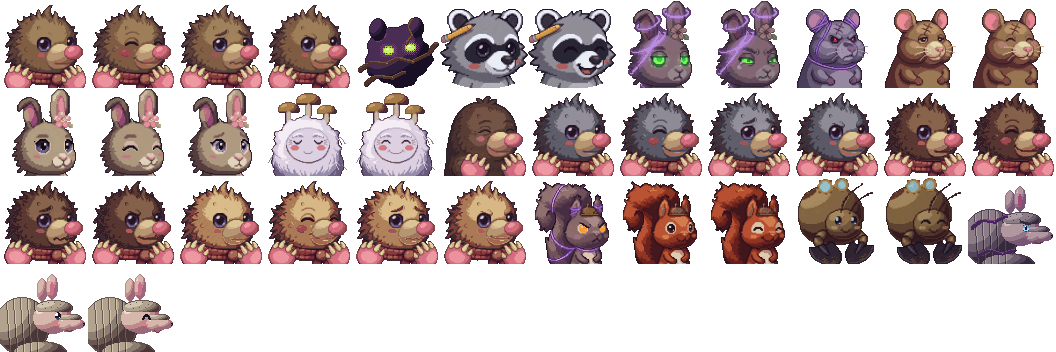
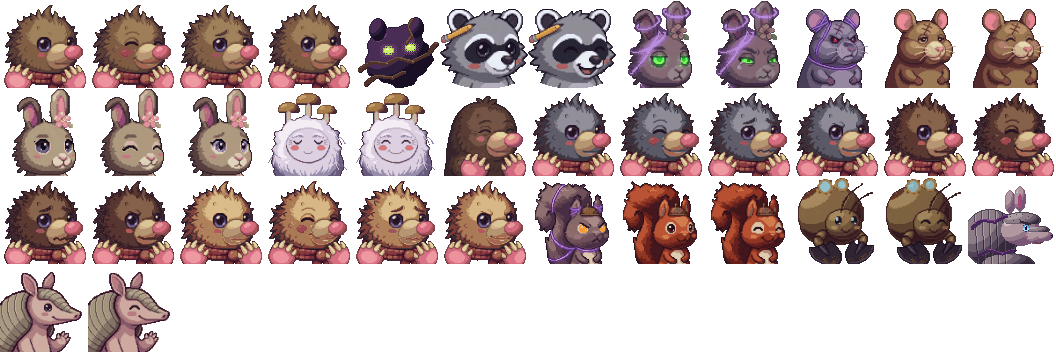
콩이 대화 초상화를 나노바나나 그림으로(칸 36~37): 3/4 모습 기준으로 긴 주둥이·뾰족한 귀(토끼 귀가 아니게), 머리 판 테두리가 지워지지 않게 틈 지우기는 끔. 바뀐 칸 확인이 0~35만 보던 것을 48칸으로 고쳐 v0.1.18부터 다시 봄(35~47 그대로), 공식 페이지 콩이 그림도(0121)
Claude-Session: https://claude.ai/code/session_01VNXEyeHwdhsn4oiHYXtNpM

Changed region(s): [[0.0, 0.7812, 0.1875, 1.0]]

diff --git a/tools/art/ai_portraits.py b/tools/art/ai_portraits.py
@@ -45,6 +45,8 @@ CHARACTERS = {
     'doto_tainted': (30, ('glare',), 0.96, 16),
     # 수수: 원본에 둘레 여백이 있어 틀을 맞춘다(높이 100%). 다리 사이에 갇힌 배경 틈을 지운다(HOLES).
     'susu': (33, ('normal', 'happy'), 1.0, 16),
+    # 콩이: 원본이 칸을 채워 틀은 그대로. 주둥이 위 머리 판의 밝은 테두리가 배경색과 가까워 틈 지우기(HOLES)는 켜지 않는다.
+    'kongi': (36, ('normal', 'happy'), None, 16),
 }
 # 크림색 가슴이 원본 아래 끝에 닿는 캐릭터: 배경 지우기를 아래 끝에서 시작하지 않는다(_character_mask).
 CHEST_AT_BOTTOM = {'momo', 'momo_tainted', 'halmae', 'doto', 'doto_tainted'}

diff --git a/docs/phase-1-combat-prototype.md b/docs/phase-1-combat-prototype.md
@@ -124,7 +124,7 @@
 | 잠긴 문(0094·0096~0099) | `render.rs`(draw_root_gate·빛 패스), `sunny.rs`(FENCE_H·FENCE_V), `room.rs`(door_anim·tick_doors), `world.rs`(열릴 때 실 풀림) | 팩 나무 울타리 두 겹(가운데 칸만: 남북 39,2 · 동서 40,3, 가로대가 벽에서 벽까지, 팩이 없으면 물든 뿌리) + 가로대를 감는 보라 실, 0.35초에 솟아 닫히고 0.5초에 가라앉으며 실이 풀린다, 어둠 속에서도 실이 빛남 |
 | 어둠 지도·야광버섯·그림자(0095·0100) | `render.rs`(dark_rt·cut_material·light_sources·draw_cast_shadows·draw_mushrooms), `art.rs`(light), `biome.rs` | 빛 자리마다 어둠을 빼는 렌더 타깃, 버섯 빛 64px·세기 0.28(은은하게 넓게), 심층 버섯 14%·뿌리 지대 4%, 빛 반대쪽으로 눕는 그림자 |
 | 해·모닥불 그림자(0102~0106, 시험) | `render.rs`(draw_sun_shadows·shadow_dir·sun_shear·silhouette_material, draw_sorted의 sun), `sunny.rs`(stamp_sun_shadow), `terrain.rs`(Baker::fires), `tuning.rs`(SUN_SHADOW_*·FIRE_SHADOW_*·DECOR_LIFT_*) | 서 있는 것의 모양을 발 줄 축으로 눕혀 렌더 타깃에 모아 한 번에 얹는다. 밝은 곳은 해(오른쪽 아래), 모닥불 곁은 불 바깥쪽(150px, 멀수록 길게, 불이 아래면 더 길게 0104, 어두운 곳은 바깥으로 옅게). 모닥불 돌은 돌만 키운 모양(뒤쪽은 짧게, 0105). 그림자 패스는 몸만(빛·표시·반투명·바닥 것 제외, 밝은 곳은 타원 그림자 끔, 0106). 구운 꽃·조약돌·풀포기는 높이 비율만큼 짧게 |
-| Naïl·포포·모모(돌아옴·물듦)·보리(돌아옴·물듦)·누룩 할매·엄마·도토(돌아옴·물듦)·수수 초상화 나노바나나(0107~0120) | `tools/art/sources/ai/nail_*.png`, `tools/art/ai_portraits.py`, `tools/art/portraits.py`(sheet), `docs/art/nano-banana-prompts.md` | 표정 넷 원본 → 로고 지우기·결의 눈 색·배경 투명·88×88·한 팔레트(눈 8색 따로)·털빛 셋(주둥이·발톱은 자리로 지킴). 포포: 틀 맞추기(높이 92%)·채도 높은 색 따로. 모모: 검은 선 → 자두빛, 틀 1.22(귀 끝을 칸 맨 위에, 가슴을 칸 아래로), 가슴이 지워지지 않게 아래 끝 번지기 끔. 물든 모모: 같은 틀, 실은 굵게·위로, 눈은 선명한 초록으로 고쳐 그림, 흰빛은 보랏빛으로 물들임. 보리: 시트를 통통하게 고쳐 그림, 틀 그대로. 들쥐 대장: 보리를 고쳐 그림, 눈 팔레트 안 뗌(보라 기운 털), 빨간 눈 밝게. 할매: 시트의 둥근 얼굴 판으로 표정 짝, 둘러싸인 배경 틈 지움. 엄마: Naïl 초상화를 함께 넣고 털을 짙고 매끈하게, 앞발은 따로 고쳐 그림. Naïl 결의: 덜 표독스럽게 다시 그림, 팔레트를 얼려 다른 칸은 그대로. 도토: 시트에서 조끼·보라 꽃·리본 빼고, 몸이 잘린 줄까지만 써 배 구멍 막음. 물든 도토: 도토를 고쳐 그림, 호박색 눈 밝게. 수수: 생김새 글을 새로 쓰고 삽발을 칸 아래에. 다른 캐릭터는 다음 차례 |
+| Naïl·포포·모모(돌아옴·물듦)·보리(돌아옴·물듦)·누룩 할매·엄마·도토(돌아옴·물듦)·수수·콩이 초상화 나노바나나(0107~0121) | `tools/art/sources/ai/nail_*.png`, `tools/art/ai_portraits.py`, `tools/art/portraits.py`(sheet), `docs/art/nano-banana-prompts.md` | 표정 넷 원본 → 로고 지우기·결의 눈 색·배경 투명·88×88·한 팔레트(눈 8색 따로)·털빛 셋(주둥이·발톱은 자리로 지킴). 포포: 틀 맞추기(높이 92%)·채도 높은 색 따로. 모모: 검은 선 → 자두빛, 틀 1.22(귀 끝을 칸 맨 위에, 가슴을 칸 아래로), 가슴이 지워지지 않게 아래 끝 번지기 끔. 물든 모모: 같은 틀, 실은 굵게·위로, 눈은 선명한 초록으로 고쳐 그림, 흰빛은 보랏빛으로 물들임. 보리: 시트를 통통하게 고쳐 그림, 틀 그대로. 들쥐 대장: 보리를 고쳐 그림, 눈 팔레트 안 뗌(보라 기운 털), 빨간 눈 밝게. 할매: 시트의 둥근 얼굴 판으로 표정 짝, 둘러싸인 배경 틈 지움. 엄마: Naïl 초상화를 함께 넣고 털을 짙고 매끈하게, 앞발은 따로 고쳐 그림. Naïl 결의: 덜 표독스럽게 다시 그림, 팔레트를 얼려 다른 칸은 그대로. 도토: 시트에서 조끼·보라 꽃·리본 빼고, 몸이 잘린 줄까지만 써 배 구멍 막음. 물든 도토: 도토를 고쳐 그림, 호박색 눈 밝게. 수수: 생김새 글을 새로 쓰고 삽발을 칸 아래에. 콩이: 3/4 모습 기준, 토끼 귀가 아닌 뾰족한 귀. 다른 캐릭터는 다음 차례 |
 | 웨이브 | `world.rs`, `scenario.rs` | 지금은 개발 시나리오(아레나·웨이브 3부터)에서만. 적을 다 잡으면 1.2초 뒤 다음 웨이브(1C+1S → 2C+1S → 2C+2S → 3C+2S). 명세엔 없지만 5분 플레이 판정을 위해 넣음 |
 
 확인한 것: 데스크톱(Xvfb) 실행 캡처로 렌더 방향·공격 반원·굴파기·히트박스 표시, 헤드리스 Chromium으로 웹 빌드 로드·입력·콘솔(mismatch 없음). 확인 못 한 것: 실제 손맛(판정 1~4), 실기 게임패드, 소리의 실제 느낌(컨테이너에 오디오 장치 없음).

diff --git a/assets/LICENSES.md b/assets/LICENSES.md
@@ -8,7 +8,7 @@
 | `fonts/OFL-ArkPixel.txt` | Ark Pixel 레포 `LICENSE-OFL` | — | Ark Pixel의 OFL 원문. 일본어·간체 폰트와 함께 배포 |
 | `art/nail.png` | 직접 그림. 원본 `tools/art/nail.py` | © 2026 Beardworks | Naïl 스프라이트 v2(idle·walk·attack·hurt·dead·흙더미·그림자 + 흰 실루엣) |
 | `art/nail_fur1~3.png` | 직접 그림. 원본 `tools/art/nail.py`(털 색만 바꿈) | © 2026 Beardworks | 털빛 잿빛·밤빛·모래빛(저널 보상, docs/decisions/0048) |
-| `art/portraits.png` | 직접 그림. 원본 `tools/art/portraits.py`. **Naïl 칸 0~3·18~29, 포포 칸 5~6, 물든 모모 칸 7~8, 들쥐 대장(물든 보리) 칸 9, 보리 칸 10~11, 돌아온 모모 칸 12~14, 누룩 할매 칸 15~16, 엄마 칸 17, 도토 칸 30~32, 수수 칸 33~34**는 나노바나나(Google Gemini 이미지 모델)로 사장이 그린 원본 `tools/art/sources/ai/*.png`를 `tools/art/ai_portraits.py`가 칸으로 만든 것(2026-10-26, docs/decisions/0108·0109·0110·0112·0113·0114·0115·0116·0117·0118·0119·0120). 참고 그림은 직접 그린 초상화만 넣었다(팩 그림 없음, 0064). 모든 생성 그림에 SynthID 워터마크가 들어 있다 | © 2026 Beardworks | 대화창 초상화 88×88, 한 줄 12칸(Naïl 털빛 3 × 표정 4 포함, Naïl 표정 4 + 이웃 그림자 + 라쿤 포포 2 + 물든 모모 2 + 들쥐 대장·보리 3 + 돌아온 모모 3 + 누룩 할매 2 + 엄마 두더지 1 + 도토 3 + 수수 2 + 콩이 3) |
+| `art/portraits.png` | 직접 그림. 원본 `tools/art/portraits.py`. **Naïl 칸 0~3·18~29, 포포 칸 5~6, 물든 모모 칸 7~8, 들쥐 대장(물든 보리) 칸 9, 보리 칸 10~11, 돌아온 모모 칸 12~14, 누룩 할매 칸 15~16, 엄마 칸 17, 도토 칸 30~32, 수수 칸 33~34, 콩이 칸 36~37**은 나노바나나(Google Gemini 이미지 모델)로 사장이 그린 원본 `tools/art/sources/ai/*.png`를 `tools/art/ai_portraits.py`가 칸으로 만든 것(2026-10-26, docs/decisions/0108·0109·0110·0112·0113·0114·0115·0116·0117·0118·0119·0120·0121). 참고 그림은 직접 그린 초상화만 넣었다(팩 그림 없음, 0064). 모든 생성 그림에 SynthID 워터마크가 들어 있다 | © 2026 Beardworks | 대화창 초상화 88×88, 한 줄 12칸(Naïl 털빛 3 × 표정 4 포함, Naïl 표정 4 + 이웃 그림자 + 라쿤 포포 2 + 물든 모모 2 + 들쥐 대장·보리 3 + 돌아온 모모 3 + 누룩 할매 2 + 엄마 두더지 1 + 도토 3 + 수수 2 + 콩이 3) |
 | `art/critters.png` | 직접 그림. 원본 `tools/art/critters.py` | © 2026 Beardworks | 적(물든 들쥐·생쥐·시궁쥐·다람쥐·청설모)·허수아비·라쿤 포포·물든 모모·돌아온 모모·도토·돌아온 도토·수수·콩이·돌아온 콩이 16×16 + 흰 실루엣. v2 손으로 찍은 자세 |
 | `art/chief.png` | 직접 그림. 원본 `tools/art/chief.py` | © 2026 Beardworks | 튜토리얼 보스 들쥐 대장(물든 모습 8칸)·돌아온 보리(5칸) 32×32 + 흰 실루엣 |
 | `art/illust/*.png`(타이틀 바탕 `title.png`·`title_fog.png` 포함, 0083 — 타이틀은 바탕 그림 없이 코드로만) | 직접 그림(임시). 원본 `tools/art/illust.py` | © 2026 Beardworks(molehill·great_tree·last_bloom·mother_burrow·bori_freed·momo_bloom 바탕은 아래 그림들, CC0·퍼블릭 도메인) | 컷씬 일러스트 9장 640×360(2배 밀도, 일부는 패닝용으로 더 큼). 사람이 그린 그림으로 바꾸면 이 행을 작가·계약으로 고친다(docs/art/cutscene-illustrations.md) |

diff --git a/docs/art/nano-banana-prompts.md b/docs/art/nano-banana-prompts.md
@@ -87,7 +87,7 @@ World rules: The violet threads belong to Halmae, an ancient and lonely fungus g
 | 누룩 할매 | `ref_halmae.png` | `Halmae: an enormous, ancient fungus grandmother, a soft white cotton-like mycelium mound crowned with a cluster of tan mushroom caps, with a kind old face: closed eyes, rosy cheeks and a small smile. Her threads spread out in every direction, white with violet mixed in. Match the attached reference of Halmae.` |
 | 도토 | `ref_doto.png` | `Doto: a red squirrel with a huge fluffy tail and an acorn-cap hat, cheerful closed eyes. Match the attached reference of Doto.` |
 | 수수 | `ref_susu.png` | `Susu: a cute mole-cricket craftsman, a small digging insect drawn as a round, friendly animal: a big rounded, velvety brown thorax like a soft helmet, a small round head with two long thin antennae and big gentle eyes, a pair of large dark shovel-like front legs for digging, a short segmented abdomen, and brass goggles with round sky-blue lenses pushed up on his forehead. Match the attached reference of Susu.` |
-| 콩이 | `ref_kongi.png` | `Kongi: a small armadillo with a banded grey shell and long pink ears. Match the attached reference of Kongi.` |
+| 콩이 | `ref_kongi.png` | `Kongi: a small armadillo with a banded grey shell, a grey head plate, a long slender tapered snout and two short, pointed, leaf-shaped pinkish-grey ears (not long rabbit ears). Match the attached reference of Kongi.` |
 | 포포 | `ref_popo.png` | `Popo: a raccoon with grey fur, a black eye mask, a white muzzle and round ears, with a small trinket tucked behind one ear. Match the attached reference of Popo.` |
 
 ## 4. 장면

diff --git a/docs/decisions/0121-kongi-portraits.md b/docs/decisions/0121-kongi-portraits.md
@@ -1,0 +1,16 @@
+# 0121. 콩이 대화 초상화(나노바나나)
+
+- 날짜: 2026-10-26
+- 상태: 채택. 0120(수수)에 이은 열두째. 물든 콩이(칸 35)는 따로.
+
+## 결정(`tools/art/ai_portraits.py` `kongi`, `tools/art/sources/ai/kongi_{normal,happy}.png`)
+- 칸 36~37(보통 = 조금 뽐내는 차분함, 기쁨 = 감은 눈 웃음). 원본이 칸을 채워 틀은 그대로.
+- 시트의 앞모습은 귀가 토끼 귀처럼 길고 주둥이가 짧았다. 칸에서 모모(토끼)와 헷갈릴 수 있어 시트를 고치지 않고, 초상화를 **3/4 모습 기준**으로 그리며 "길고 가는 주둥이, 짧고 뾰족한 잎 모양 귀(not long rabbit ears)"를 박았다. 대화창 초상화는 모두 오른쪽을 보니 3/4 모습과도 맞는다.
+- 틈 지우기(`HOLES`)는 켜지 않는다: 원본에서 잡힌 "둘러싸인 배경색 덩어리"(1,829점)는 틈이 아니라 주둥이 위 머리 판의 밝은 테두리였다. 켜면 지워진다.
+
+## 확인 범위를 고침
+- 지금까지 "바뀐 칸" 비교를 칸 0~35만 했다. 시트는 4줄 48칸이다. v0.1.18 시트와 다시 견주니 바뀐 칸은 0~3·5~34뿐이고 35~47은 그대로다. 앞으로 48칸을 다 본다.
+
+## 확인
+- 색까지 비교(48칸): 커밋된 시트와 다른 칸은 36·37뿐이다. 공식 페이지 콩이 그림(`site/img/p_kongi.png`)도 다시 만들었다.
+- 헤드리스 대화는 못 봤다: 돌아온 콩이 대사는 보스를 이긴 뒤와 마을에서만 나온다.
